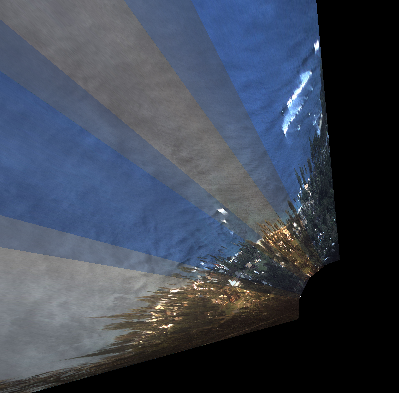
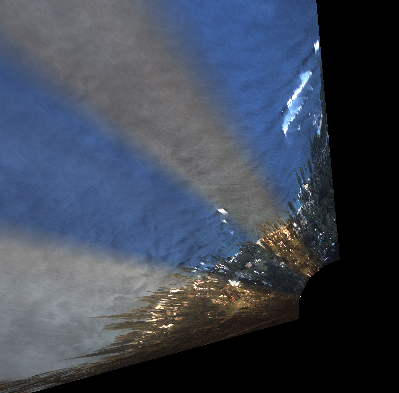
Feathering
Added feathering through the function cameraSeamBlend

diff --git a/X_CoreFunctions/photogrammetryFunctions/cameraSeamBlend.m b/X_CoreFunctions/photogrammetryFunctions/cameraSeamBlend.m
@@ -1,0 +1,91 @@
+%% cameraSeamBlend
+%%%%%%%%%%%%%%%%%%%%%%%%%%%%%%%%%%%%%%%%%%%%%%%%%%%%%%%%%%%%%%%%%%%%%%%%%%%
+%  This function takes rectifications from different cameras (but same grid)
+%  and merges them together into a single rectification. To do this, the function
+%  performs a weighted average where pixels closest to the seams are not
+%  represented as strongly as those closest to the center of the camera
+%  rectification.
+  
+
+%  Reference Slides:
+%  
+
+%  Input:
+%  IrIndv= A NxMxCxK matrix where N and M are the grid lengths for the
+%  rectified image. C is the number of color channels (3 for rgb, 1 for bw)
+%  and K is the number of cameras. Even if using bw images, the matrix must
+%  be four dimensions with C=1; Each k entry is a rectified image of a
+%  camera.
+
+
+%  Output:
+%  Ir= A NxMxC uint8 matrix of the merged rectified image. N and M are the grid lengths for the
+%  rectified image. C is the number of color channels (3 for rgb, 1 for bw)
+%  and K is the number of cameras. Even if using bw images, the matrix must
+%  be four dimensions with C=1;
+
+
+%  Required CIRN Functions:
+%  None
+%%%%%%%%%%%%%%%%%%%%%%%%%%%%%%%%%%%%%%%%%%%%%%%%%%%%%%%%%%%%%%%%%%%%%%%%%%%
+
+
+
+
+function [Ir] =cameraSeamBlend(IrIndv);
+
+%% Section 1:  Weighting Functions
+
+% Intialize Weighting Functions For seams
+[m,n,c,camnum]=size(IrIndv(:,:,:,:));  
+IrIndvW = zeros([m n c]);
+indvW = IrIndvW ;
+
+
+
+
+
+%% Section 2: Determine Weighting Function for Each Camera
+for k=1:camnum
+ 
+    % Pull Individual Rectification
+    ir=squeeze(double(IrIndv(:,:,:,k)));
+    
+    % Turn image into binary image (1 for nan, 0 for nonnan). 
+    binI=isnan(ir(:,:,1));
+    
+    % For each pixel that =0 (non-nan pixels), find shortest distance to pixel that =1 (nan pixels, edges). For
+    % pixels that ==1 (nan pixels), the distance is 0. Valid non-nan pixels
+    % near the edges will have smaller D than those in the center of the
+    % rectified image.
+    D = bwdist(binI);     
+       
+    % Weight all Pixels Equally if all are non-zero (W is inf, No edges or nanned areas).
+    if( isinf(max(D(:))) ) 
+       W = ones(size(D));
+    end
+    
+    % Normalize Distances by max Distance to create Weighting Function for pixels.
+    % Pixels furthest away from the edges (Largest D) will have maximum
+    % weights near 1. Pixels near edges(smallest D), weighed less.
+    W = D ./ max(D(:)); 
+
+    % Replicate the Weighting Function for Each Color Channel, Remove any
+    % nans
+    W = repmat(W, [1 1 c]);
+    W(isnan(W(:))) = 0;
+
+    % Apply Weight to OrthoPhoto and save in Matrix
+    IrIndvW(:,:,:,k)=ir.*W;
+    % Save Weights to perform Weighted Average
+    indvW(:,:,:,k)=W;
+end
+
+
+
+
+
+%% Section 3: Calculate Weighted Average
+
+% Perform Weighted Average and format
+Ir=uint8(nansum(IrIndvW,4)./nansum(indvW,4));

diff --git a/X_CoreFunctions/photogrammetryFunctions/imageRectifier.m b/X_CoreFunctions/photogrammetryFunctions/imageRectifier.m
@@ -135,8 +135,8 @@ for kk=1:s(1)
     end
 end
 
-% Make a uint8 for image formatting
-Ir(:,:,:,k)=(ir);
+% Save Rectifications from Each Camera into A Matrix
+IrIndv(:,:,:,k)=(ir);
 
 % Save Ud Vd coordinates for Plotting in Teaching Mode
 if teachingMode==1
@@ -152,19 +152,11 @@ end
 
 
 
-%% Section 5: Merge Seams together   
-% Find Number of Pixel Values at Each Spot
-numPix=nansum(isnan(Ir)*-1+1,4);
-Ir=uint8(nansum(Ir,4)./numPix); % Take Average and Format
+%% Section 5: Merge rectifications of multiple cameras
 
-    
+Ir=cameraSeamBlend(IrIndv);
 
-
-
-
-
-
-
+  
 
 %% Section 4: Optional for Teaching Mode
 

diff --git a/D2_gridGenExampleRectMultiCam.m b/D2_gridGenExampleRectMultiCam.m
@@ -37,6 +37,7 @@
 %  Required CIRN Functions:
 %  imageRectifcation
 %       -xyz2DistUV
+%       -cameraSeamBlend
 %  xyz2DistUV
 %       -intrinsicsExtrinsics2P
 %       -distortUV

diff --git a/G2_pixelInstruments.m b/G2_pixelInstruments.m
@@ -45,6 +45,7 @@
 
 %  Required CIRN Functions: 
 %  imageRectification
+%     -cameraSeamBlend
 %  xyz2DistUV
 %   distortUV
 %   intrinsicsExtrinsics2P

diff --git a/G1_imageProducts.m b/G1_imageProducts.m
@@ -39,6 +39,7 @@
 
 %  Required CIRN Functions: 
 %  imageRectification
+%  -cameraSeamBlend
 %  xyz2DistUV
 %   distortUV
 %   intrinsicsExtrinsics2P
